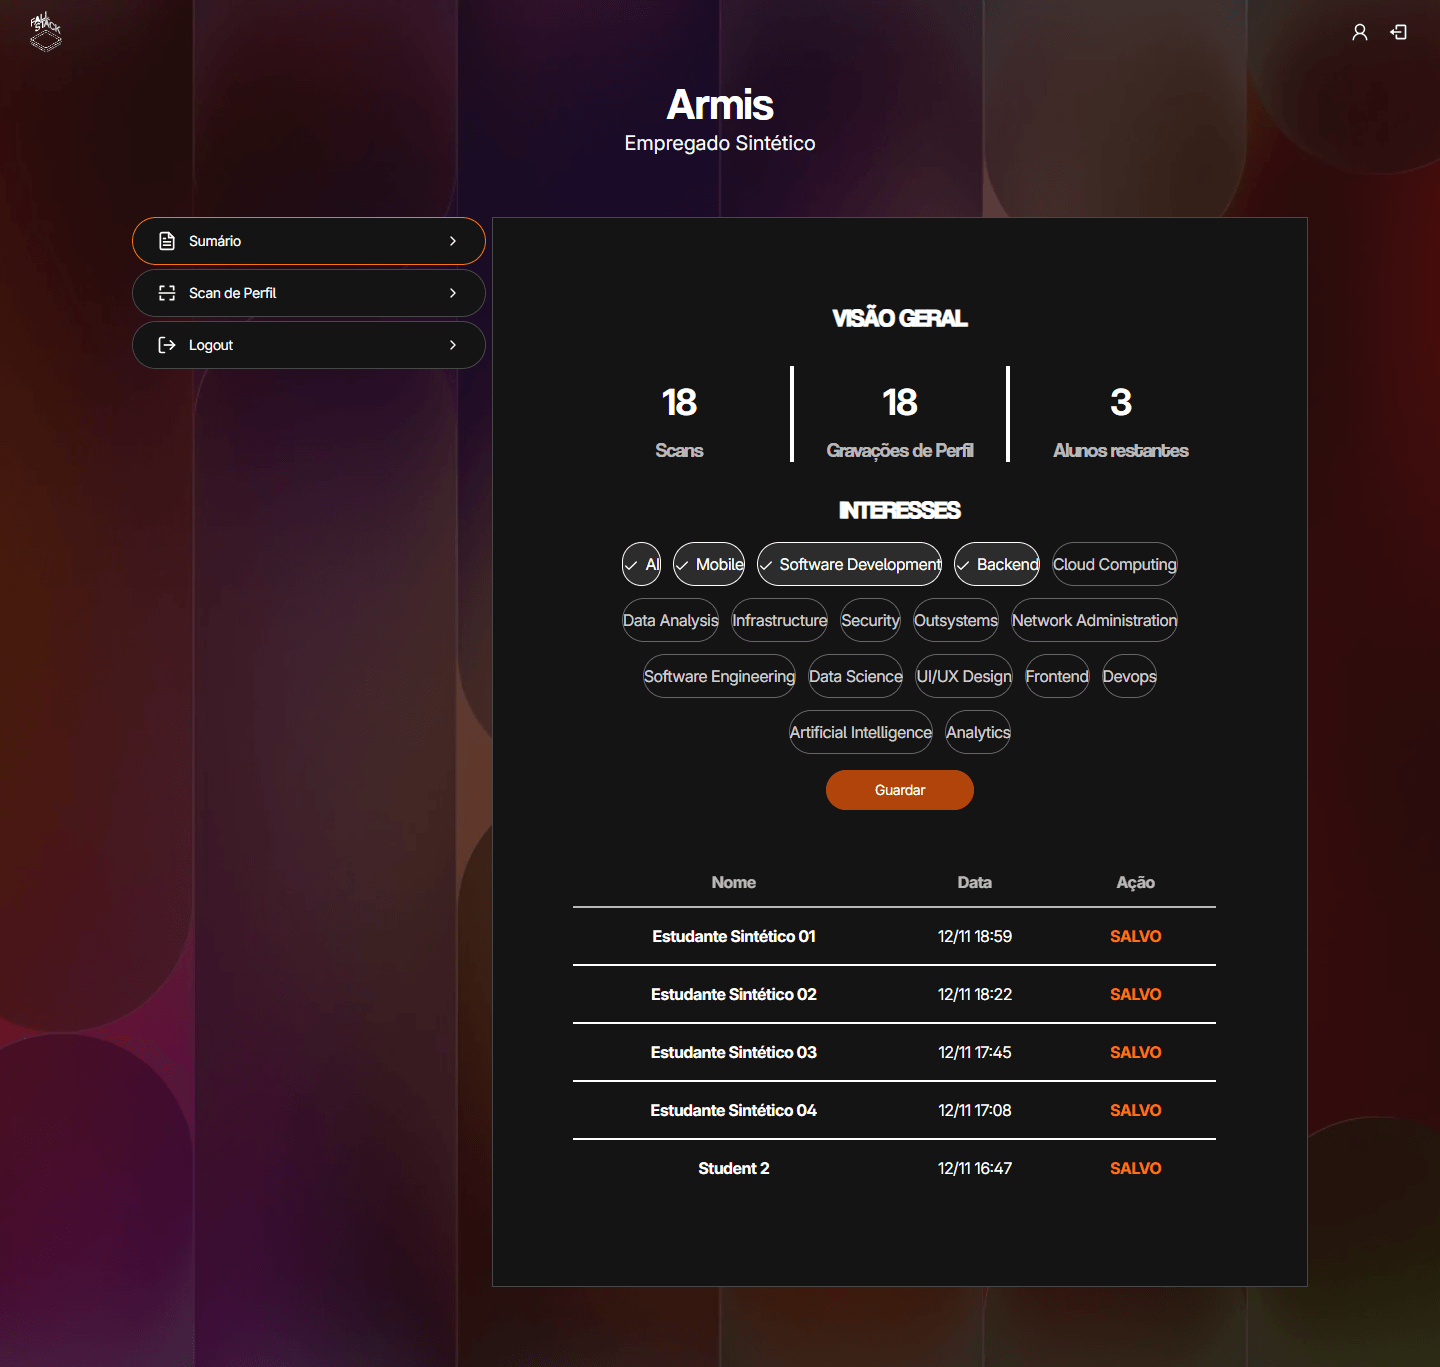
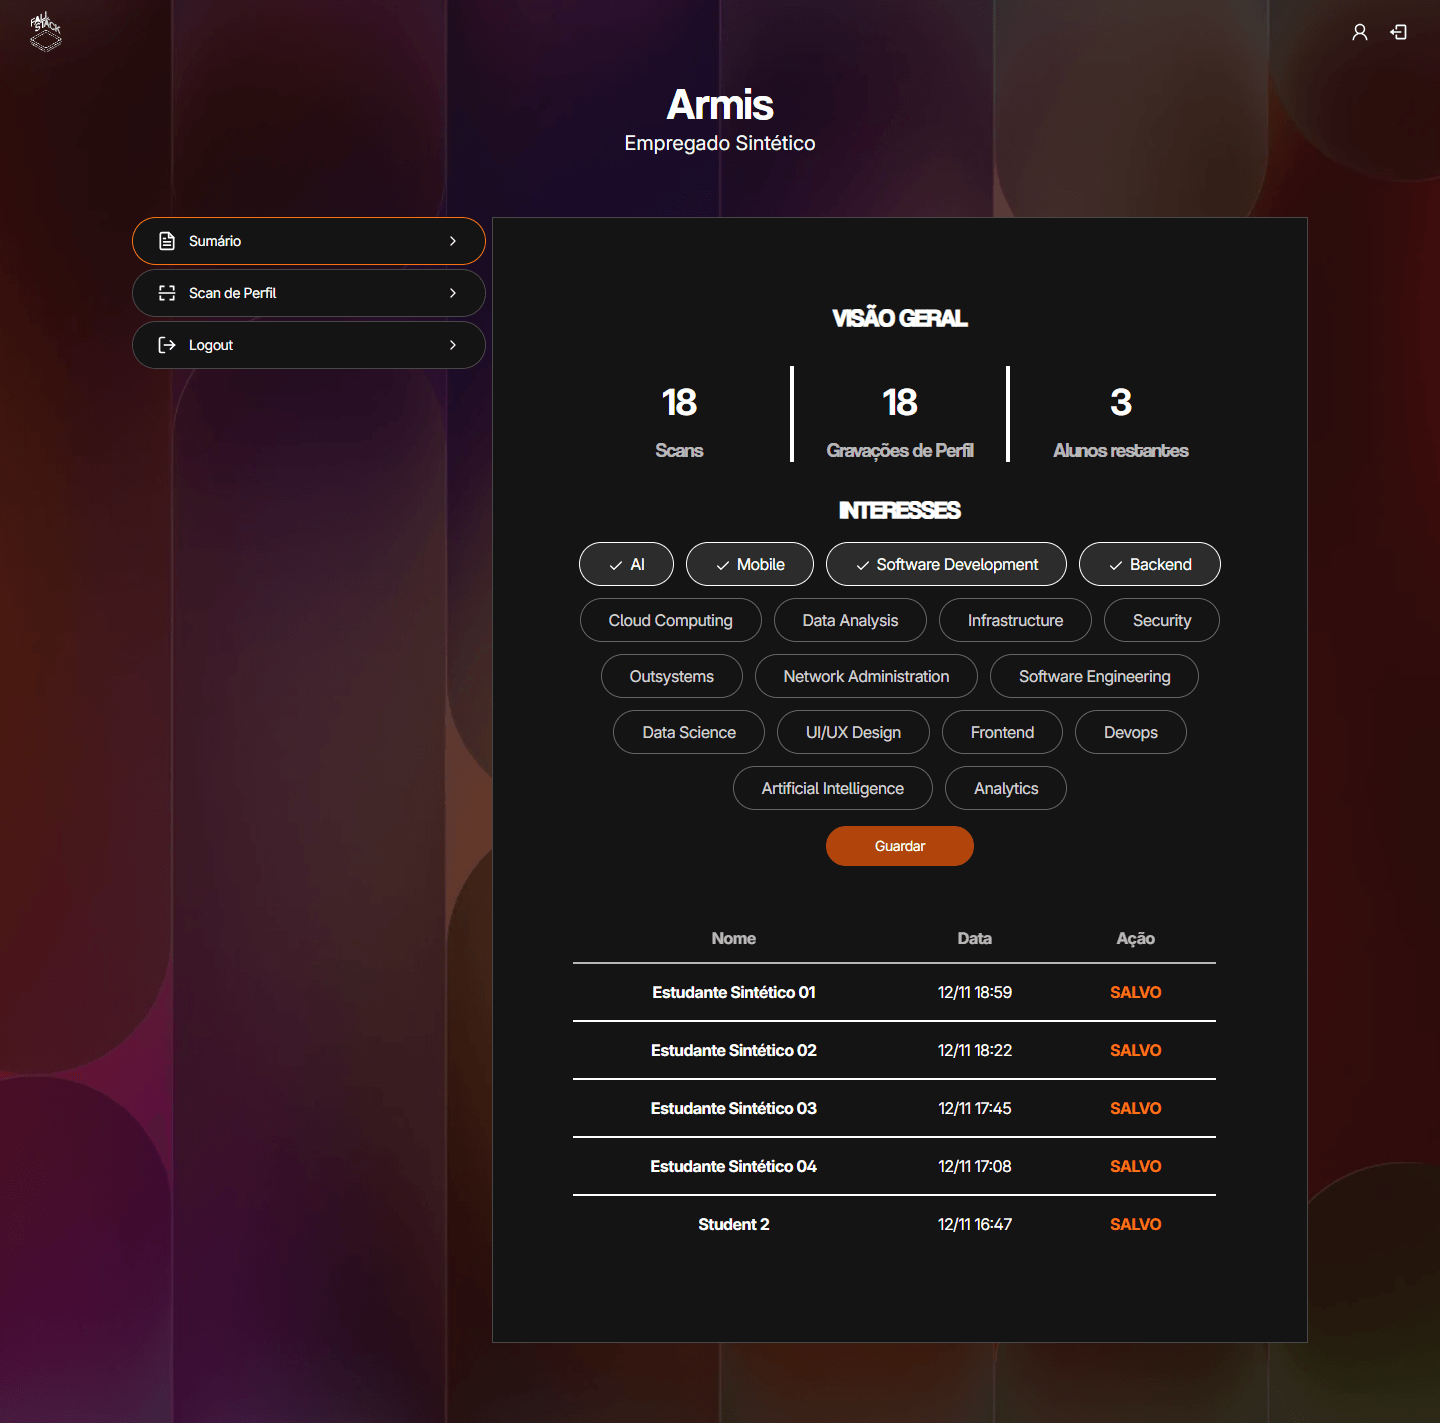
fix: pad company interest tags like the student's

diff --git a/src/components/Companies/CompanyProfile/CompanyStatsSection/index.test.tsx b/src/components/Companies/CompanyProfile/CompanyStatsSection/index.test.tsx
@@ -96,6 +96,17 @@ test("interest choices are grouped under the Interesses heading", () => {
   );
 });
 
+test("interest tags get the same side padding as the student's tags", () => {
+  renderSummary();
+
+  // The shared selector pads tags only in its left-aligned mode; the
+  // centred company summary adds the student's padding around it.
+  expect(screen.getByRole("group", { name: "Interesses" })).toHaveClass(
+    "[&_button]:px-5",
+    "sm:[&_button]:px-7"
+  );
+});
+
 test("saving interests sends the selection and confirms success", async () => {
   renderSummary();
 

diff --git a/src/components/Companies/CompanyProfile/CompanyStatsSection/index.tsx b/src/components/Companies/CompanyProfile/CompanyStatsSection/index.tsx
@@ -82,10 +82,12 @@ const CompanyStatsSection: React.FC<StatsProps> = ({
       >
         Interesses
       </h2>
+      {/* The shared selector pads its tags only when left-aligned; this keeps
+          the summary centred and gives the tags the student's padding. */}
       <div
         role="group"
         aria-labelledby="company-interests-heading"
-        className="w-full"
+        className="w-full [&_button]:px-5 sm:[&_button]:px-7"
       >
         <InterestSelector
           availableInterests={availableInterests}
